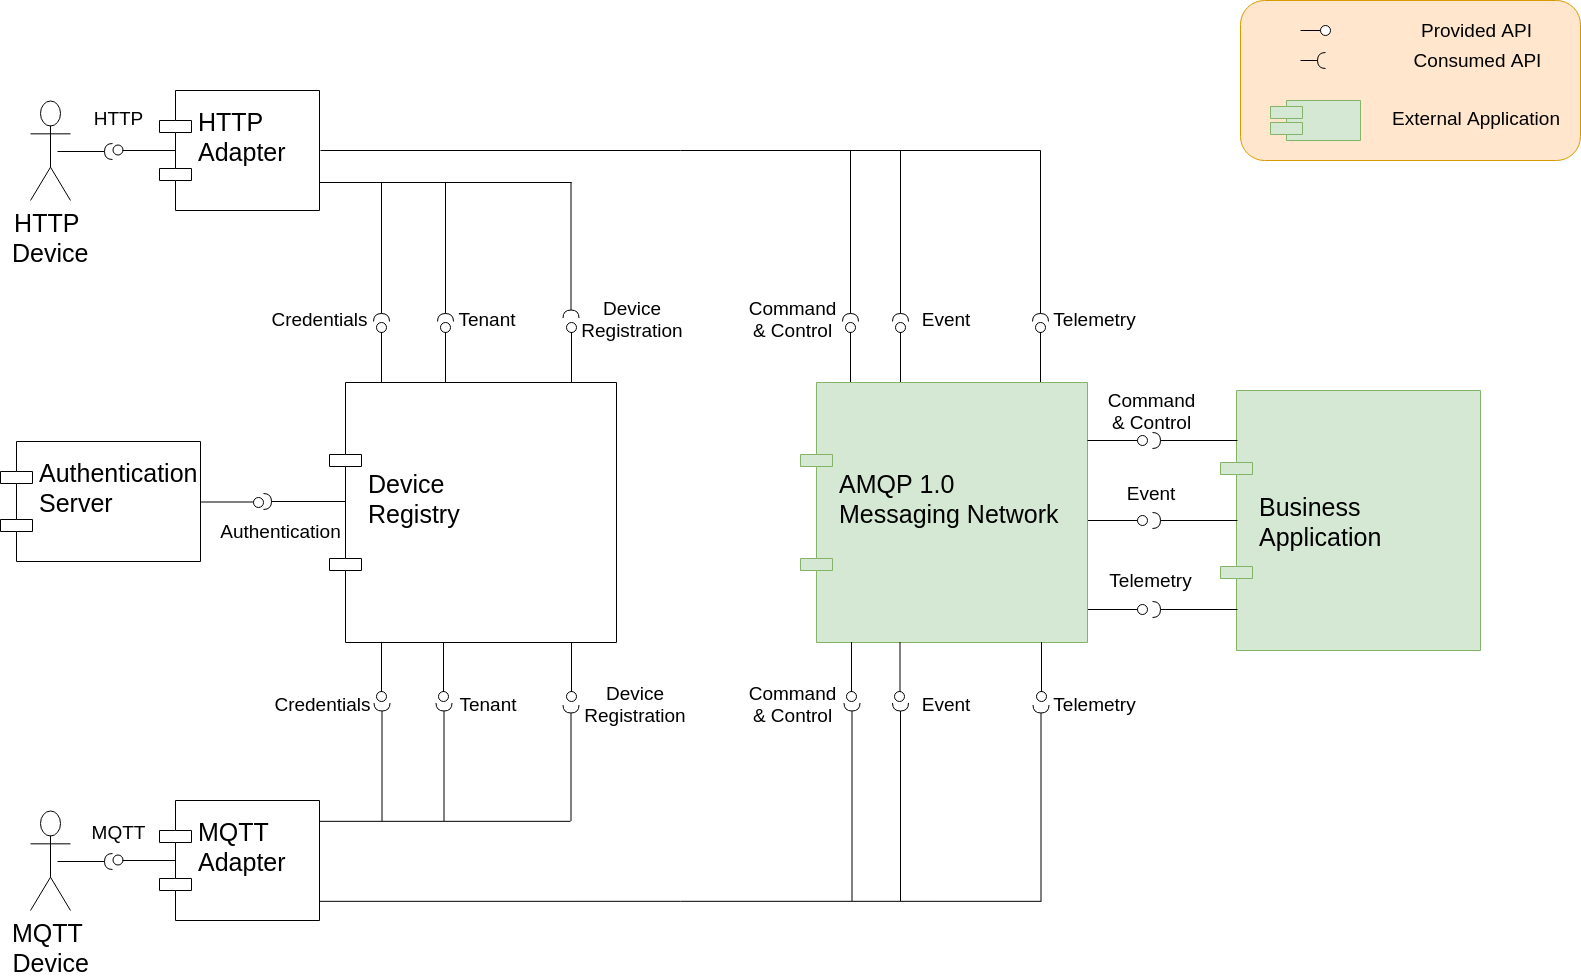
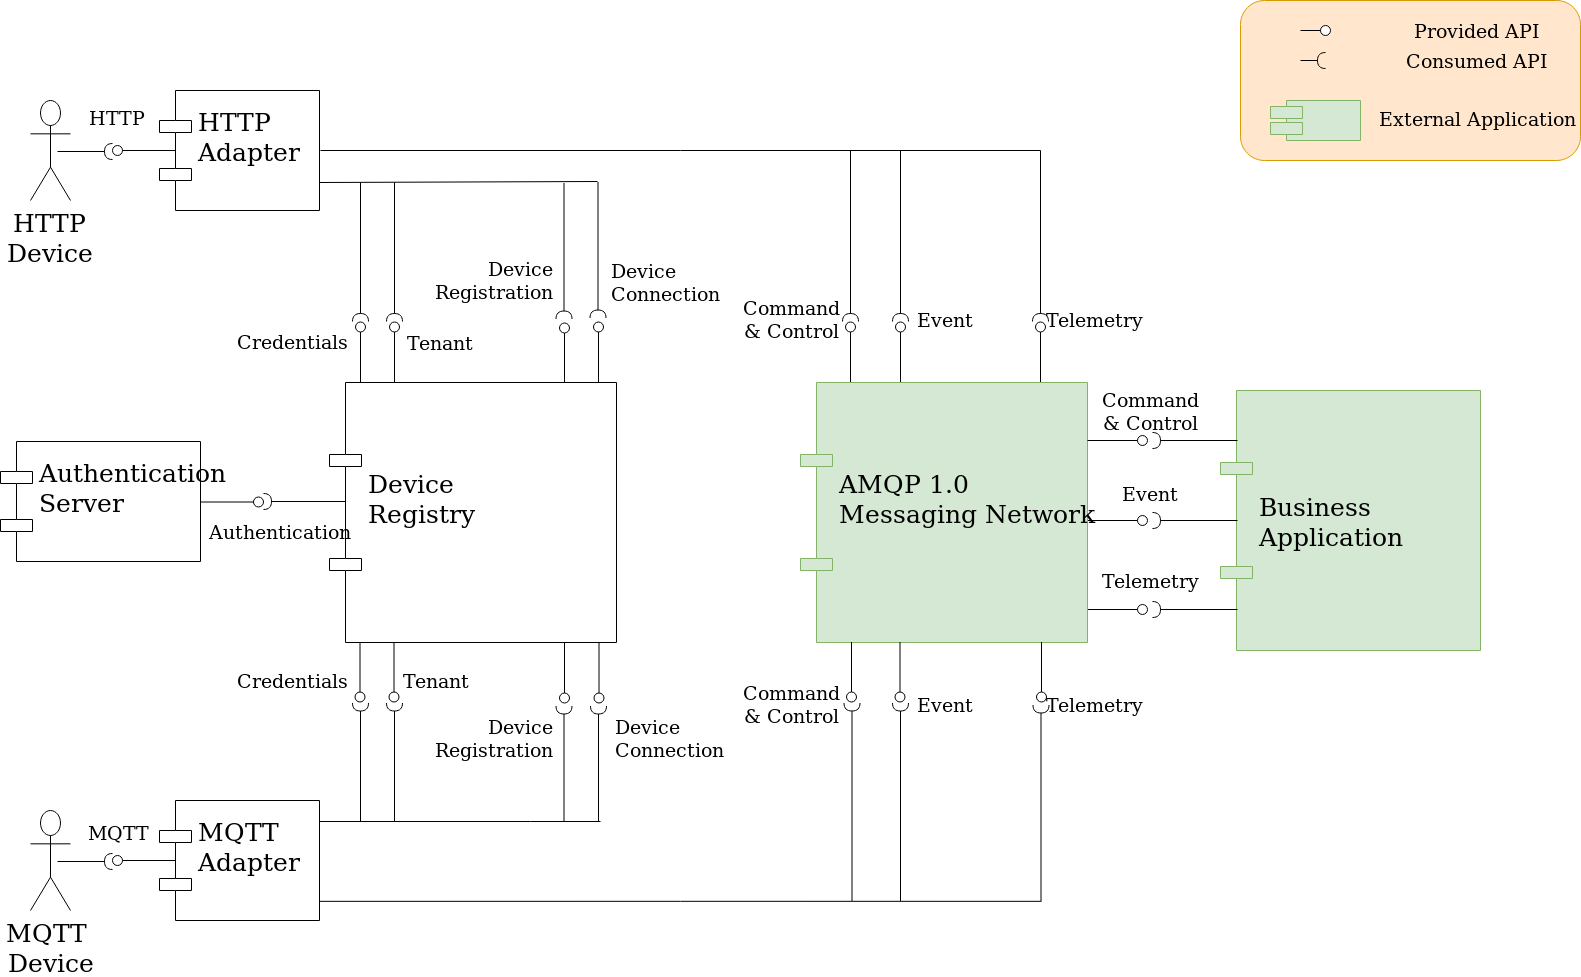
[#1546] Add Device Connection API to component diagrams.
Fixes #1546

diff --git a/site/documentation/content/architecture/component-view/index.md b/site/documentation/content/architecture/component-view/index.md
@@ -23,6 +23,7 @@ All interactions between the components are based on AMQP 1.0 message exchanges 
 * [Credentials API]({{< relref "/api/credentials" >}}),
 * [Tenant API]({{< relref "/api/tenant" >}}),
 * [Device Registration API]({{< relref "/api/device-registration" >}}),
+* [Device Connection API]({{< relref "/api/device-connection" >}}),
 * [Command & Control API]({{< relref "/api/command-and-control" >}}),
 * [Telemetry API]({{< relref "/api/telemetry" >}}) and
 * [Event API]({{< relref "/api/event" >}}).
@@ -33,7 +34,14 @@ The diagram below provides an overview of the *Device Registry* component's inte
 
 {{< figure src="device-registry.png" width="100%" >}}
 
-The *Device Registry* component implements the [Credentials API]({{< relref "/api/credentials" >}}), [Tenant API]({{< relref "/api/tenant" >}}) and [Device Registration API]({{< relref "/api/device-registration" >}}). Clients opening a connection to *SimpleDeviceRegistryServer* are authenticated by means of an external service accessed via the *Auth* port. The *FileBasedCredentialsService*, *FileBasedTenantService* and *FileBasedRegistrationService* store all data in the local file system. The *Device Registry* is therefore not recommended to be used in production environments because the component cannot easily scale out horizontally. It is mainly intended to be used for demonstration purposes and PoCs. In real world scenarios, a more sophisticated implementation should be used that is designed to scale out, e.g. using a persistent store for keeping device registration information that can be shared by multiple instances.
+The *Device Registry* component implements the [Credentials API]({{< relref "/api/credentials" >}}), [Tenant API]({{< relref "/api/tenant" >}}),
+[Device Registration API]({{< relref "/api/device-registration" >}}) and [Device Connection API]({{< relref "/api/device-connection" >}}).
+Clients opening a connection to *SimpleDeviceRegistryServer* are authenticated by means of an external service accessed via the *Auth* port.
+The *FileBasedCredentialsService*, *FileBasedTenantService* and *FileBasedRegistrationService* store all data in the local file system.
+The *MapBasedDeviceConnectionService* keeps all data in memory.
+The *Device Registry* is therefore not recommended to be used in production environments because the component cannot easily scale out horizontally.
+It is mainly intended to be used for demonstration purposes and PoCs. In real world scenarios, a more sophisticated implementation should
+be used that is designed to scale out, e.g. using a persistent store for keeping device registration information that can be shared by multiple instances.
 
 ## AMQP 1.0 Messaging Network
 
